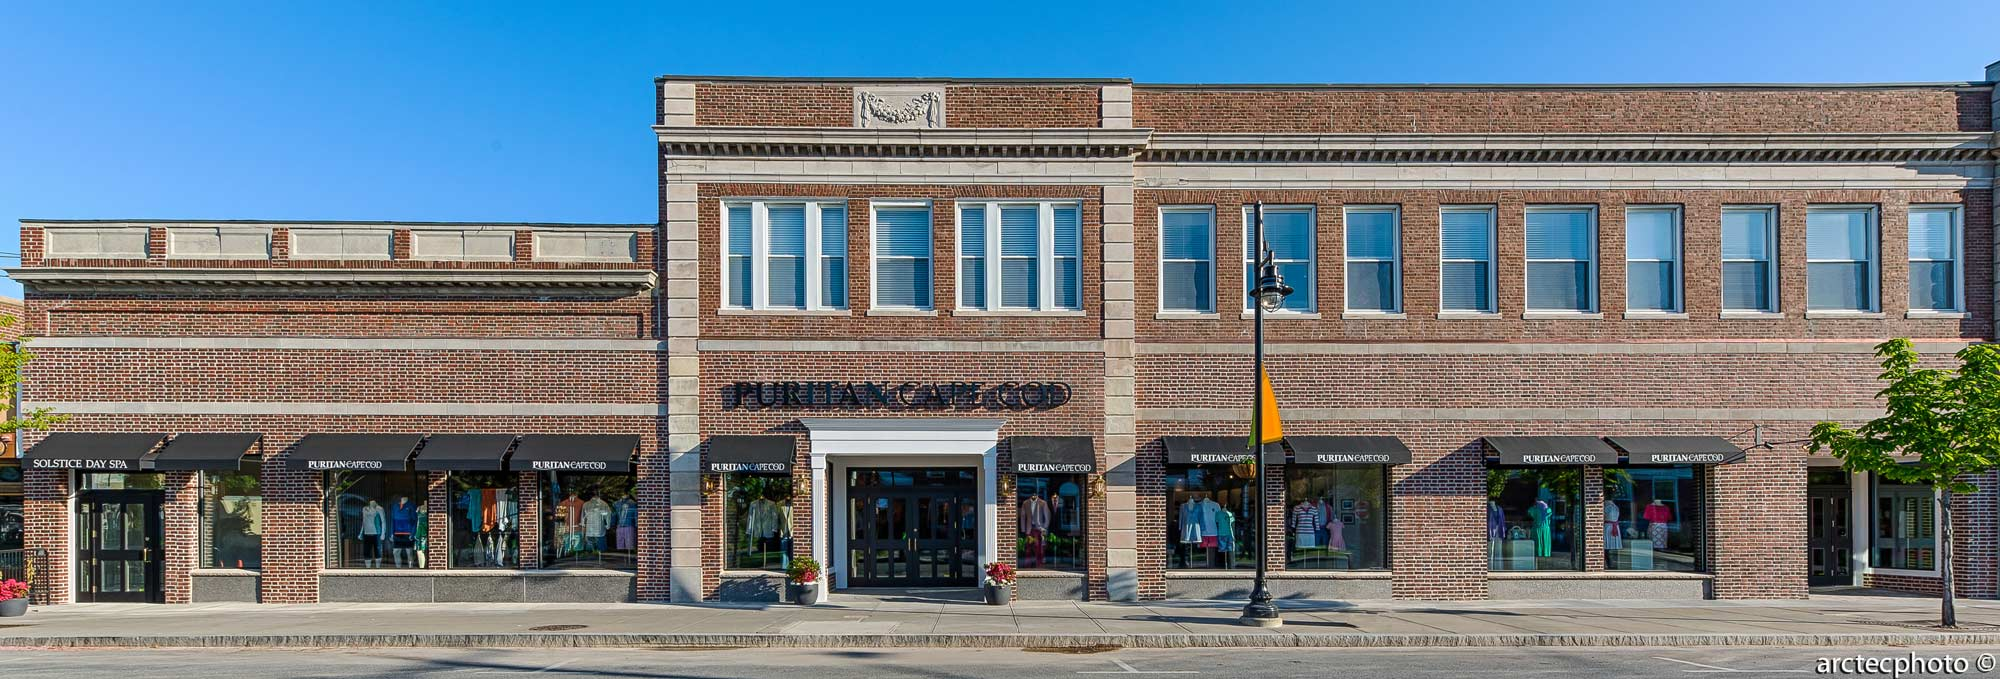
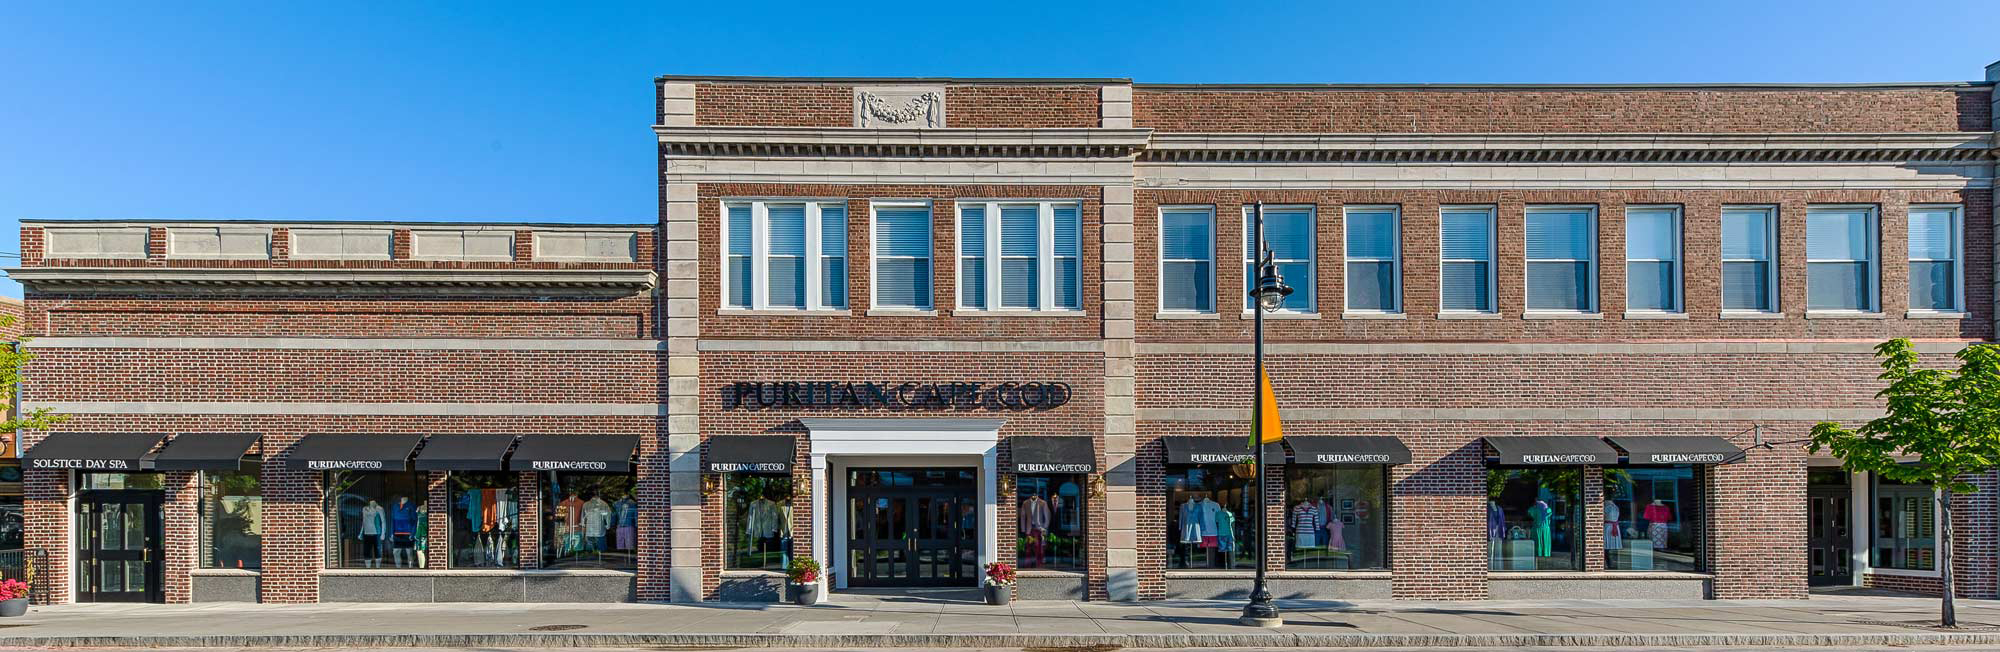
Implemented slideshow on home page.

diff --git a/index.html b/index.html
@@ -1,9 +1,10 @@
 <!-- @include _top.html -->
 <!-- @include _nav.html -->
 
-<div id="hero" class="home-page">
-	<!-- @todo get image with no copyright at the bottom -->
+<div id="hero" class="home-page" data-orbit data-options="bullets:false;">
 	<img src="<!-- @path Puritan-Hyannis-front.jpg -->"/>
+	<img src="<!-- @path Puritan-Hyannis-front-2.jpg -->"/>
+	<img src="<!-- @path Puritan-Hyannis-front-3.jpg -->"/>
 </div>
 
 <div id="secondary">
@@ -92,4 +93,4 @@
 </div> <!-- end headlines -->
 
 <!-- @include _footer.html -->
-<!-- @include _bottom.html
+<!-- @include _bottom.html -->
